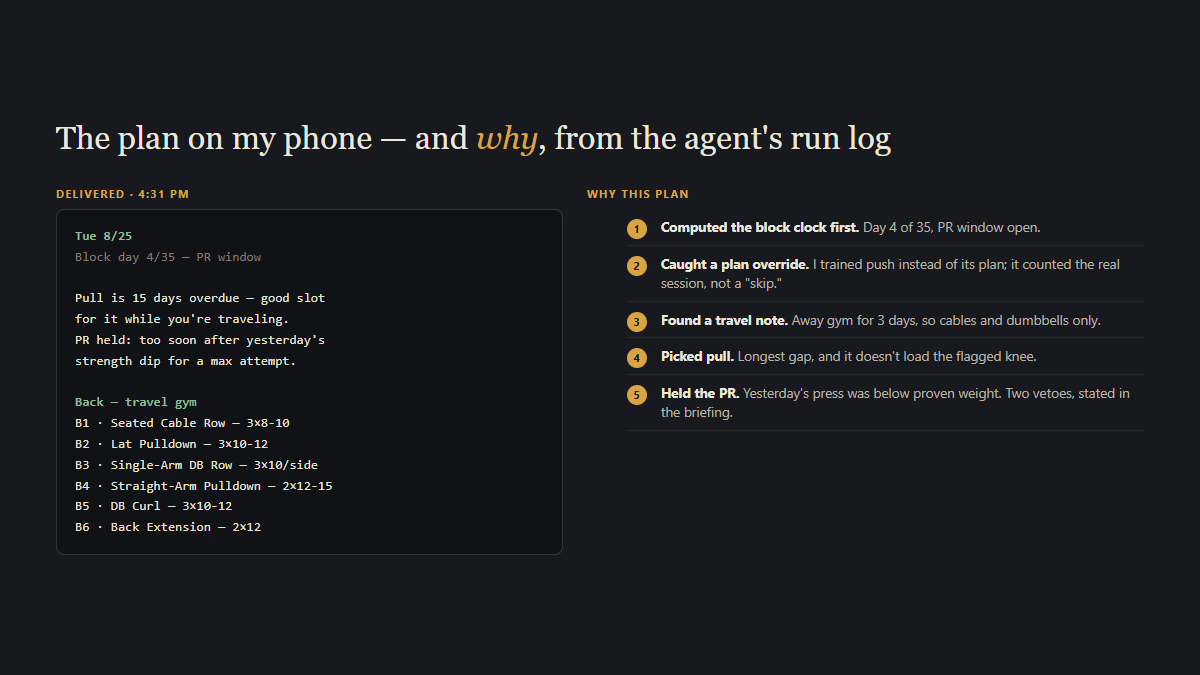
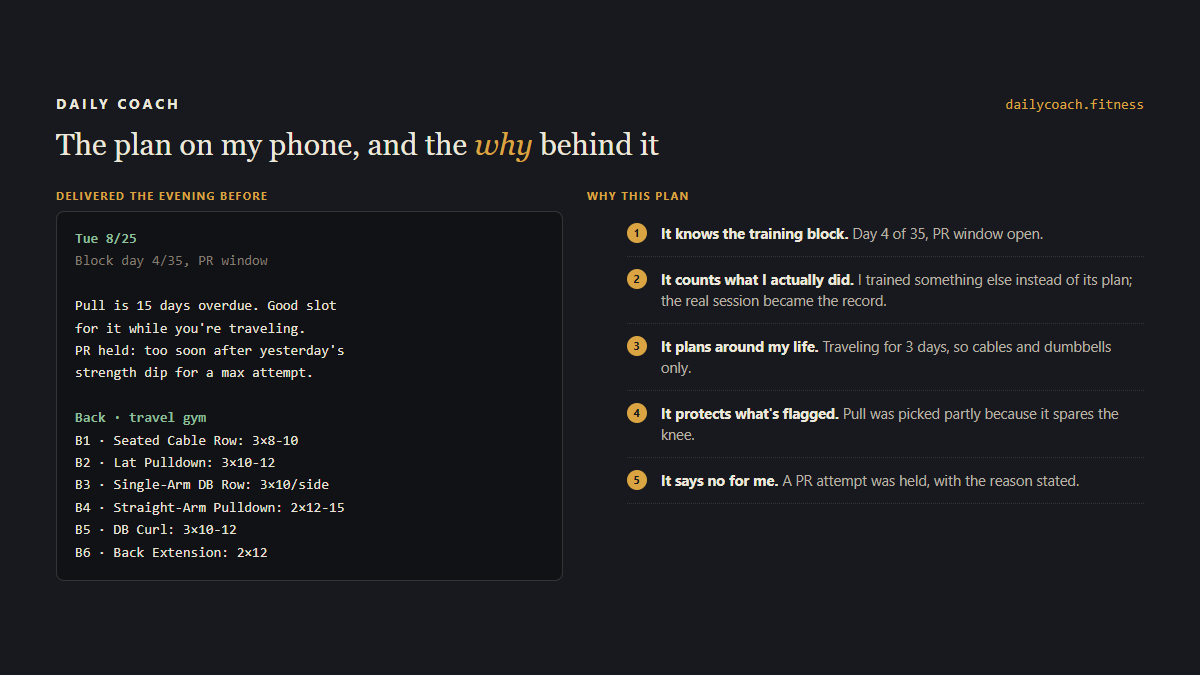
Post image: Daily Coach branding, domain, copy synced with site

diff --git a/assets/li-output.html b/assets/li-output.html
@@ -4,60 +4,65 @@
   body {
     width: 1200px; height: 675px; background: #17191e; color: #ece7db;
     font-family: -apple-system, BlinkMacSystemFont, "Segoe UI", Roboto, Arial, sans-serif;
-    padding: 44px 56px; overflow: hidden;
+    padding: 40px 56px; overflow: hidden;
     display: flex; flex-direction: column; justify-content: center;
   }
-  .top { font-family: Charter, Georgia, serif; font-size: 32px; margin-bottom: 30px; }
-  li { padding-top: 12px; padding-bottom: 12px; font-size: 14.5px; }
-  .msg { font-size: 14px; }
+  .bar { display: flex; justify-content: space-between; align-items: baseline; margin-bottom: 14px; }
+  .brand { font-size: 14px; letter-spacing: .22em; text-transform: uppercase; color: #ece7db; font-weight: 700; }
+  .url { font-family: Consolas, monospace; font-size: 14px; color: #d9a441; }
+  .top { font-family: Charter, Georgia, serif; font-size: 30px; margin-bottom: 26px; }
   .top em { font-style: italic; color: #d9a441; }
   .cols { display: grid; grid-template-columns: 1fr 1.1fr; gap: 24px; }
   .cap { font-size: 11px; letter-spacing: .12em; text-transform: uppercase; color: #d9a441; font-weight: 700; margin-bottom: 8px; }
   .msg {
     background: #101216; border: 1px solid rgba(236,231,219,.16); border-radius: 8px;
-    padding: 16px 18px; font-family: Consolas, monospace; font-size: 13px; line-height: 1.6;
+    padding: 16px 18px; font-family: Consolas, monospace; font-size: 14px; line-height: 1.6;
     white-space: pre-wrap; color: #e8e2d6;
   }
   .msg .hd { color: #8fbf9a; font-weight: 700; }
   .msg .dim { color: #837d70; }
   ol { list-style: none; }
-  li { padding: 8px 0 8px 34px; position: relative; font-size: 13.5px; color: #b9b2a4; border-bottom: 1px dotted rgba(236,231,219,.13); line-height: 1.45; }
+  li { padding: 12px 0 12px 34px; position: relative; font-size: 14.5px; color: #b9b2a4; border-bottom: 1px dotted rgba(236,231,219,.13); line-height: 1.45; }
   li::before {
-    content: attr(data-n); position: absolute; left: 0; top: 10px; width: 20px; height: 20px;
+    content: attr(data-n); position: absolute; left: 0; top: 12px; width: 20px; height: 20px;
     background: #d9a441; color: #17191e; border-radius: 50%; font-size: 11px; font-weight: 700;
     display: flex; align-items: center; justify-content: center;
   }
   li b { color: #ece7db; }
 </style></head>
 <body>
-  <div class="top">The plan on my phone — and <em>why</em>, from the agent's run log</div>
+  <div class="bar">
+    <div class="brand">Daily Coach</div>
+    <div class="url">dailycoach.fitness</div>
+  </div>
+  <div class="top">The plan on my phone, and the <em>why</em> behind it</div>
   <div class="cols">
     <div>
-      <div class="cap">Delivered · 4:31 PM</div>
+      <div class="cap">Delivered the evening before</div>
       <div class="msg"><span class="hd">Tue 8/25</span>
-<span class="dim">Block day 4/35 — PR window</span>
+<span class="dim">Block day 4/35, PR window</span>
 
-Pull is 15 days overdue — good slot
+Pull is 15 days overdue. Good slot
 for it while you're traveling.
 PR held: too soon after yesterday's
 strength dip for a max attempt.
 
-<span class="hd">Back — travel gym</span>
-B1 · Seated Cable Row — 3×8-10
-B2 · Lat Pulldown — 3×10-12
-B3 · Single-Arm DB Row — 3×10/side
-B4 · Straight-Arm Pulldown — 2×12-15
-B5 · DB Curl — 3×10-12
-B6 · Back Extension — 2×12</div>
+<span class="hd">Back · travel gym</span>
+B1 · Seated Cable Row: 3×8-10
+B2 · Lat Pulldown: 3×10-12
+B3 · Single-Arm DB Row: 3×10/side
+B4 · Straight-Arm Pulldown: 2×12-15
+B5 · DB Curl: 3×10-12
+B6 · Back Extension: 2×12</div>
     </div>
     <div>
       <div class="cap">Why this plan</div>
       <ol>
-        <li data-n="1"><b>Computed the block clock first.</b> Day 4 of 35, PR window open.</li>
-        <li data-n="2"><b>Caught a plan override.</b> I trained push instead of its plan; it counted the real session, not a "skip."</li>
-        <li data-n="3"><b>Found a travel note.</b> Away gym for 3 days, so cables and dumbbells only.</li>
-        <li data-n="4"><b>Picked pull.</b> Longest gap, and it doesn't load the flagged knee.</li>
-        <li data-n="5"><b>Held the PR.</b> Yesterday's press was below proven weight. Two vetoes, stated in the briefing.</li>
+        <li data-n="1"><b>It knows the training block.</b> Day 4 of 35, PR window open.</li>
+        <li data-n="2"><b>It counts what I actually did.</b> I trained something else instead of its plan; the real session became the record.</li>
+        <li data-n="3"><b>It plans around my life.</b> Traveling for 3 days, so cables and dumbbells only.</li>
+        <li data-n="4"><b>It protects what's flagged.</b> Pull was picked partly because it spares the knee.</li>
+        <li data-n="5"><b>It says no for me.</b> A PR attempt was held, with the reason stated.</li>
       </ol>
     </div>
   </div>
